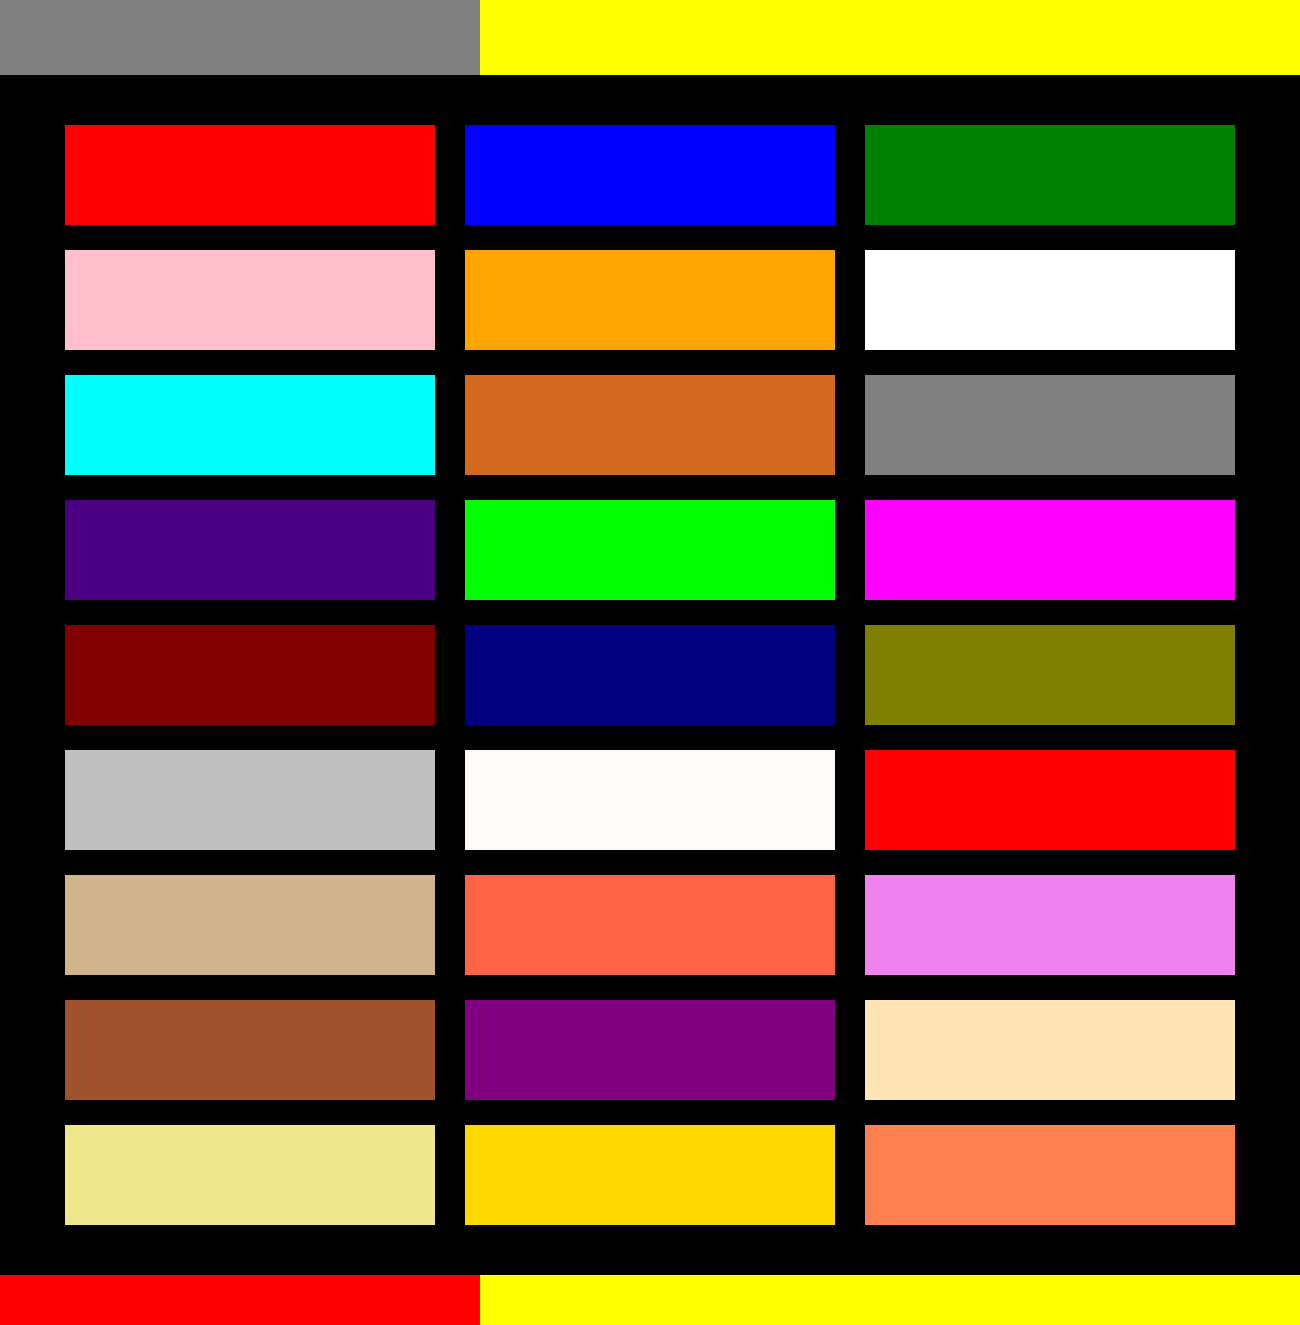
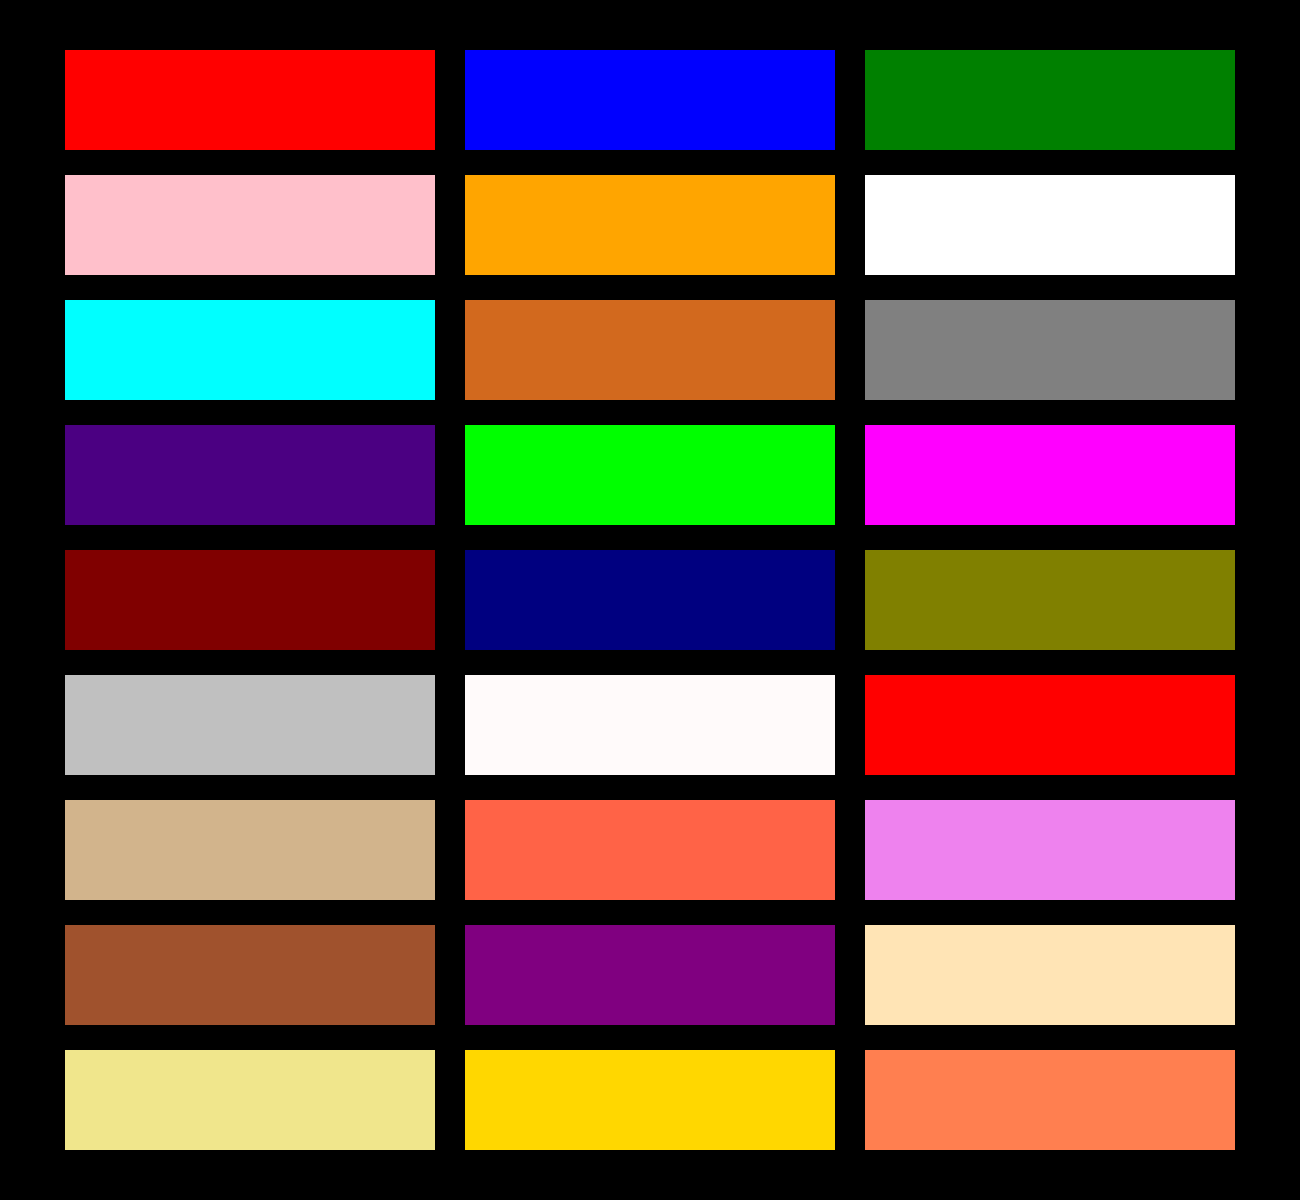
Updates

diff --git a/integration/responsive-min-width.html b/integration/responsive-min-width.html
@@ -9,7 +9,6 @@
 </head>
 
 <body>
-  <div class="header"></div>
   <div class="container responsive-min-width">
     <div class="row">
       <div class="col-xs-4">
@@ -111,7 +110,6 @@
       </div>
     </div>
   </div>
-  <div class="footer"></div>
 </body>
 
 </html>

diff --git a/integration/static.html b/integration/static.html
@@ -8,7 +8,6 @@
 </head>
 
 <body>
-  <div class="header"></div>
   <div class="container static">
     <div class="row">
       <div class="col-xs-4">
@@ -110,7 +109,6 @@
       </div>
     </div>
   </div>
-  <div class="footer"></div>
 </body>
 
 </html>

diff --git a/integration/responsive.html b/integration/responsive.html
@@ -9,7 +9,6 @@
 </head>
 
 <body>
-  <div class="header"></div>
   <div class="container">
     <div class="row">
       <div class="col-xs-4">
@@ -111,7 +110,6 @@
       </div>
     </div>
   </div>
-  <div class="footer"></div>
 </body>
 
 </html>

diff --git a/integration/css/main.css b/integration/css/main.css
@@ -26,18 +26,6 @@ body {
   margin: 25px 0;
 }
 
-.header {
-  height: 75px;
-  background-color: grey;
-}
-
-.footer {
-  height: 50px;
-  background-color: red;
-}
-
-
-
 .red {
   background-color: red;
 }
